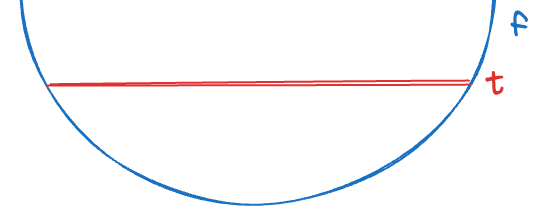
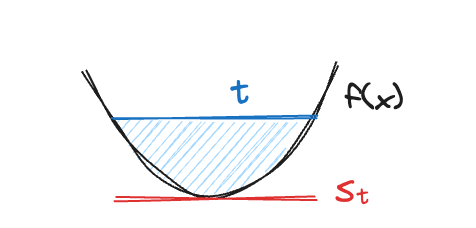
update convex optimization ch3

diff --git a/post/convex_optimization/index.html b/post/convex_optimization/index.html
@@ -194,7 +194,7 @@
 
     ,
         "url" : "https:\/\/doggydoggy0101.github.io\/post\/convex_optimization\/",
-        "wordCount" : "2552",
+        "wordCount" : "3742",
         "genre" : [ ],
         "keywords" : [ 
       
@@ -423,7 +423,7 @@
           </li>
           <li class="post__meta-item">
             <em class="fas fa-stopwatch post__meta-icon"></em>
-            <span class="post__meta-text">12-minute read</span>
+            <span class="post__meta-text">18-minute read</span>
           </li>
         </ul>
       <h3>Table of Contents</h3>
@@ -510,7 +510,47 @@
         <li><a href="#317-epigraph">3.1.7 Epigraph</a></li>
       </ul>
     </li>
-    <li><a href="#32-operations-that-preserve-convexity">3.2 Operations that preserve convexity</a></li>
+    <li><a href="#32-operations-that-preserve-convexity">3.2 Operations that preserve convexity</a>
+      <ul>
+        <li><a href="#324-composition">3.2.4 Composition</a></li>
+        <li><a href="#325-minimization">3.2.5 Minimization</a></li>
+        <li><a href="#326-perspective-of-a-function">3.2.6 Perspective of a function</a></li>
+      </ul>
+    </li>
+    <li><a href="#33-conjugate-function">3.3 Conjugate function</a>
+      <ul>
+        <li><a href="#331-definition-and-examples">3.3.1 Definition and examples</a></li>
+        <li><a href="#332-basic-properties">3.3.2 Basic properties</a></li>
+      </ul>
+    </li>
+    <li><a href="#34-quasiconvex-functions">3.4 Quasiconvex functions</a>
+      <ul>
+        <li><a href="#341-definition-and-examples">3.4.1 Definition and examples</a></li>
+        <li><a href="#342-basic-properties">3.4.2 Basic properties</a></li>
+        <li><a href="#343-differentiable-quasiconvex-fucntions">3.4.3 Differentiable quasiconvex fucntions</a></li>
+        <li><a href="#344-operations-that-preserve-quasiconvexity">3.4.4 Operations that preserve quasiconvexity</a></li>
+      </ul>
+    </li>
+    <li><a href="#35-log-convex-functions">3.5 Log-convex functions</a>
+      <ul>
+        <li><a href="#351-definition">3.5.1 Definition</a></li>
+        <li><a href="#352-properties">3.5.2 Properties</a></li>
+      </ul>
+    </li>
+    <li><a href="#36-convexity-with-respect-to-generalized-inequalities">3.6 Convexity with respect to generalized inequalities</a>
+      <ul>
+        <li><a href="#361-monotonicity-with-respect-to-generalized-inequality">3.6.1 Monotonicity with respect to generalized inequality</a></li>
+        <li><a href="#362-convexity-with-respect-to-a-generalized-inequality">3.6.2 Convexity with respect to a generalized inequality</a></li>
+      </ul>
+    </li>
+  </ul>
+
+  <ul>
+    <li><a href="#41-optimization-problems">4.1 Optimization problems</a>
+      <ul>
+        <li><a href="#411-basic-terminology">4.1.1 Basic terminology</a></li>
+      </ul>
+    </li>
   </ul>
 </nav>
 <p>S. Boyd, L. Vandenberghe, Convex optimization, Cambridge university press, 2004.</p>
@@ -542,7 +582,7 @@ for all \(x,y\in\mathbb{R}^n\) and all \(\alpha,\beta\in\mathbb{R}\) with \(\alp
 <h2 id="12-least-squares-and-linear-programming">1.2 Least squares and linear programming</h2>
 <p>Two subclasses of convex optimization: least-squares and linear programming.</p>
 <h3 id="121-least-squares">1.2.1 Least squares</h3>
-<p>A <em>least squares</em> (LS)is a non-constrained optimization problem with an objective which is a sum of squares of terms:
+<p>A <em>least squares</em> (LS) is a non-constrained optimization problem with an objective which is a sum of squares of terms:
 $$
 \min\ f_0(x)=\|Ax-b\|^2-\sum_{i=1}^k(a_ix-b_i)^2,\tag{1.4}
 $$
@@ -835,47 +875,32 @@ construct the function \(f:\mathbb{R}^n\to\mathbb{R}^m\) given by \(f(x)=P\circ 
 <li>\(x\in S\) is minimum if and only if \(S\subseteq x+K\).</li>
 <li>\(x\in S\) is minimal if and only if \((x-K)\cap S=\{x\}\).</li>
 </ul>
-<blockquote>
-<p>For \(K=\mathbb{R}_+\), minimal and minimum are the same.
-We show some examples for \(K=\mathbb{R}^2_+\):
+<p>For \(K=\mathbb{R}_+\), minimal and minimum are the same. We show some examples for \(K=\mathbb{R}^2_+\):
 <figure><img src="../../images/convex_optimization/min.png"
     alt="image" width="500">
 </figure>
 </p>
-</blockquote>
 <h2 id="25-separating-and-supporting-hyperplanes">2.5 Separating and supporting hyperplanes</h2>
 <h3 id="251-separating-hyperplane-theorem">2.5.1 Separating hyperplane Theorem</h3>
-<p>Suppose \(C\) and \(D\) are nonempty disjoint convex sets, i.e., \(C\cap D=\emptyset\). Then there exist \(a\neq0\) and \(b\) such that \(a^\top x\leq b\) forall \(x\in C\) and \(a^\top x\geq b\) forall \(x\in D\). In other words, the affine function \(a^\top x−b\) is nonpositive on \(C\) and nonnegative on \(D\). The hyperplane \(\{x\mid a^\top x=b\}\) is called a separating hyperplane for the sets \(C\) and \(D\).</p>
-<blockquote>
-<p>We skip the proof here, however, the idea is similar to SVM.
+<p>Suppose \(C\) and \(D\) are nonempty disjoint convex sets, i.e., \(C\cap D=\emptyset\). Then there exist \(a\neq0\) and \(b\) such that \(a^\top x\leq b\) forall \(x\in C\) and \(a^\top x\geq b\) forall \(x\in D\). In other words, the affine function \(a^\top x−b\) is nonpositive on \(C\) and nonnegative on \(D\). The hyperplane \(\{x\mid a^\top x=b\}\) is called a separating hyperplane for the sets \(C\) and \(D\).
 <figure><img src="../../images/convex_optimization/separate.png"
     alt="image" width="300">
 </figure>
 </p>
-</blockquote>
-<p>A separating hyperplane is called <em>strict separation</em> of the sets \(C\) and \(D\) if \(a^\top x&lt;b\) forall \(x\in C\) and \(a^\top x&gt;b\) forall \(x\in D\).</p>
-<blockquote>
-<p>Disjoint convex sets (even closed sets) need not be strictly separable.
-Ex. \(C=\{(x,y)\mid x\leq0\}\) and \(D=\{(x,y)\mid xy\geq1, x&gt;,y&gt;0\}\):
+<p>A separating hyperplane is called <em>strict separation</em> of the sets \(C\) and \(D\) if \(a^\top x&lt;b\) forall \(x\in C\) and \(a^\top x&gt;b\) for all \(x\in D\). Disjoint convex sets (even closed sets) need not be strictly separable. For example, \(C=\{(x,y)\mid x\leq0\}\) and \(D=\{(x,y)\mid xy\geq1, x&gt;,y&gt;0\}\):
 <figure><img src="../../images/convex_optimization/separate_converse.png"
     alt="image" width="320">
 </figure>
 </p>
-</blockquote>
-<p>The converse of the separating hyperplane theorem is not true.</p>
-<blockquote>
-<p>Ex. Hyperplane \(x=0\) separates \(C=D=\{0\}\), but \(C\) and \(D\) are not disjoint convex sets.</p>
-</blockquote>
+<p>The converse of the separating hyperplane theorem is not true. For example, hyperplane \(x=0\) separates \(C=D=\{0\}\), but \(C\) and \(D\) are not disjoint convex sets.</p>
 <p>However, we can add various conditions such that the converse of separating hyperplane is true. For example, any two convex sets \(C\) and \(D\), with at least one of which is open, are disjoint if and only if there exists a separating hyperplane.</p>
 <h3 id="252-supporting-hyperplanes">2.5.2 Supporting hyperplanes</h3>
 <p>Suppose \(C\subseteq\mathbb{R}^n\) and \(x_0\) is a point in its boundary \(\mathbf{bd}\ C\). If \(a\neq0\) satisfies \(a^\top x\leq a^\top x_0\) for all \(x\in C\), then the hyperplane \(\{x\mid a^\top x=b\}\) is called a <em>supporting hyperplane</em> to \(C\) at point \(x_0\).</p>
-<p>This is equivalent to saying that \(x_0\) and \(C\) is separated by the hyperplane \(\{x\mid a^\top x=a^\top x_0\}\).</p>
-<blockquote>
+<p>This is equivalent to saying that \(x_0\) and \(C\) is separated by the hyperplane \(\{x\mid a^\top x=a^\top x_0\}\).
 <figure><img src="../../images/convex_optimization/support.png"
     alt="image" width="240">
 </figure>
-
-</blockquote>
+</p>
 <p><strong>Supporting hyperplane Theorem</strong>
 For any nonempty convex set \(C\) and \(x_0\in\mathbf{bd}\ C\), there exists a supporting hyperplane to \(C\) at \(x_0\).</p>
 <p><strong>Converse of supporting hyperplane Theorem</strong>
@@ -971,17 +996,224 @@ $$
 \nabla^2f(x)\succeq0.
 $$</p>
 <h3 id="316-sublevel-sets">3.1.6 Sublevel sets</h3>
-<p>The \(t\)-sublevel sets of a convex function \(f:\mathbb{R}^n\to\mathbb{R}\) is defined as \(C_t=\{x\in\mathbf{dom}\ f\mid f(x)\leq t\}\). Sublevel sets of a convex function are convex for any value \(t\).</p>
-<blockquote>
-<p>Special case of epigraph.
+<p>The \(t\)-sublevel sets of a convex function \(f:\mathbb{R}^n\to\mathbb{R}\) is defined as \(S_t=\{x\in\mathbf{dom}\ f\mid f(x)\leq t\}\). Sublevel sets of a convex function are convex for any value \(t\).
 <figure><img src="../../images/convex_optimization/sublevel.png"
-    alt="image" width="300">
+    alt="image" width="240">
 </figure>
 </p>
-</blockquote>
 <h3 id="317-epigraph">3.1.7 Epigraph</h3>
 <p>The graph of a function \(f:\mathbb{R}^n\to\mathbb{R}\) is defined as \(\{(x,f(x))\mid x\in\mathbf{dom}\ f\}\), which is a subset of \(\mathbb{R}^{n+1}\). The <em>epigraph</em> of a function \(f:\mathbb{R}^n\to\mathbb{R}\) is defined as \(\mathbf{epi}\ f=\{(x,t)\mid x\in\mathbf{dom}\ f,\ f(x)\leq t\}\subseteq\mathbb{R}^{n+1}\). A function is convex if and only if its epigraph is a convex set.</p>
 <h2 id="32-operations-that-preserve-convexity">3.2 Operations that preserve convexity</h2>
+<p>Operations that preserve convexity of functions, allow us to construct new convex functions.</p>
+<ul>
+<li>\(f\) is convex\(\implies\alpha f(x),\ \alpha\geq0\)  is convex</li>
+<li>\(f_i\) are convex\(\implies\sum f_i(x)\) is convex</li>
+<li>\(f_i\) are convex, \(w_i\) are nonnegative\(\implies\sum w_i f_i(x)\) is convex</li>
+<li>\(f\) is convex, \(g\) is affine \(\implies f(g(x))\) is convex</li>
+<li>\(f_i\) are convex\(\implies\max(f_1(x),\dots,f_n(x))\)  is convex</li>
+<li>\(f(x,y)\) is convex, \(y\in\mathcal{A}\implies\sup_{y\in\mathcal{A}}f(x,y)\) is convex</li>
+</ul>
+<blockquote>
+<p>Prove by epigraph.</p>
+</blockquote>
+<h3 id="324-composition">3.2.4 Composition</h3>
+<p>Suppose \(g:\mathbb{R}^n\to\mathbb{R}^k,\ h:\mathbb{R}^k\to\mathbb{R}\), the compostion \(f=h\circ g:\mathbb{R}^n\to\mathbb{R}\) is defined by
+$$
+f(x)=h(g(x))\ ;\ \ \mathbf{dom}\ f=\{x\in\mathbf{dom}\ g\mid g(x)\in\mathbf{dom}\ h\}.
+$$</p>
+<p><strong>scalar composition</strong> (\(k=1\))</p>
+<p>$$
+f^{\prime\prime}(x)=h^{\prime\prime}(g(x))\underbrace{[g^\prime(x)]^2}_{\geq0}+g^{\prime\prime}(x)h^\prime(g(x)).\tag{3.9}
+$$</p>
+<blockquote>
+<p>In order to make \(f\) convex, we need \(f^{\prime\prime}\geq0\) (second-order conditions). By \((3.9)\), we need \(h^{\prime\prime}\geq0\) and both \(h^\prime,g^{\prime\prime}\geq0\) or \(\leq0\).</p>
+</blockquote>
+<ul>
+<li>\(f\) is convex if \(h\) is convex (\(h^{\prime\prime}\geq0\)) and nondecreasing, and \(g\) is convex (\(g^{\prime\prime},h^\prime\geq0\))</li>
+<li>\(f\) is convex if \(h\) is convex (\(h^{\prime\prime}\geq0\)) and nonincreasing, and \(g\) is concave (\(g^{\prime\prime},h^\prime\leq0\))</li>
+</ul>
+<p><strong>vector composition</strong> (\(k\geq1\))</p>
+<p>$$
+f^{\prime\prime}(x)=g^\prime(x)^T\nabla^2h(g(x))g^\prime(x)+\nabla h(g(x))^Tg^{\prime\prime}(x).\tag{3.15}
+$$</p>
+<ul>
+<li>\(f\) is convex if \(h\) is convex, \(h\) is nondecreasing in each argument, and \(g_i\) are convex</li>
+<li>\(f\) is convex if \(h\) is convex, \(h\) is nonincreasing in each argument, and \(g_i\) are concave</li>
+</ul>
+<h3 id="325-minimization">3.2.5 Minimization</h3>
+<p>We have seen that maximum or supremum of convex functions is convex. We now consider a speical form of minimization
+$$
+g(x)=\inf_{y\in C}f(x,y)\tag{3.16}
+$$
+is convex if \(g(x)&gt;-\infty\) for all \(x\).</p>
+<h3 id="326-perspective-of-a-function">3.2.6 Perspective of a function</h3>
+<p>If \(f:\mathbb{R}^n\to\mathbb{R}\), then the <em>perspective</em> of \(f\) is the function \(g:\mathbb{R}^{n+1}\to\mathbb{R}\) defined by
+$$
+g(x,t)=tf(x/t)\ ;\ \ \mathbf{dom}\ g=\{(x,t)\mid x/t\in\mathbf{dom} f,\ t&gt;0\}.
+$$</p>
+<p>If \(f\) is convex, then \(g\) is convex. We give a short prrof using epigraph and the perspective function of \(\mathbb{R}^{n+1}\) (Sec 2.3.3). For \(t&gt;0\), we have
+$$
+\begin{aligned}
+(x,t,s)\in\mathbf{epi}\ g&amp;\iff tf(x/t)\leq s\\
+&amp;\iff f(x/t)\leq s/t\\
+&amp;\iff(x/t, s/t)\in\mathbf{epi}\ f
+\end{aligned}
+$$
+Since \(f\) is convex\(\iff\mathbf{epi}\ f\) is convex, we have \(g\) is convex\(\iff\mathbf{epi}\ g\) is convex.</p>
+<h2 id="33-conjugate-function">3.3 Conjugate function</h2>
+<h3 id="331-definition-and-examples">3.3.1 Definition and examples</h3>
+<p>Let \(f:\mathbb{R}^n\to\mathbb{R}\), then \(f^*:\mathbb{R}^n\to\mathbb{R}\) is the <em>conjugate</em> of \(f\) defined by
+$$
+f^*(y)=\sup_{x\in\mathbf{dom}\ f}\big(y^\top x-f(x)\big).\tag{3.18}
+$$</p>
+<p>We immediately see that \(f^*\) is convex since it is the supremum of affine function of \(y\), whether \(f\) is convex or not. For example given an affine function \(f(x)=ax+b\),
+$$
+f^*(y)=\sup_{x\in\mathbb{R}}\big(yx-(ax+b)\big)=\sup_{x\in\mathbb{R}}\big((y-a)x-b\big)=\begin{cases}-b&amp;\text{if }y=a\\\infty&amp;\text{if }y\neq a\end{cases}
+$$</p>
+<p>For 1-dimensional case, conjugate function tries to find the maximum distance between \(yx\) and \(f(x)\). A nice demonstration can be found here: <a href="https://youtu.be/zkesU2jMkCg">Fenchel conjugate function demo</a>.
+<figure><img src="../../images/convex_optimization/conjugate.png"
+    alt="image" width="280">
+</figure>
+</p>
+<h3 id="332-basic-properties">3.3.2 Basic properties</h3>
+<p><strong>Fenchel’s inequality</strong> By \((3.18)\), we obtain the <em>Fenchel&rsquo;s inequality</em>
+$$
+f(x)+f^*(y)\geq y^\top x.
+$$</p>
+<p><strong>Conjugate of the conjugate</strong> If \(f\) is convex and closed, i.e., \(\mathbf{epi}\ f\) is a closed convex set, then \(f^{**}=f\), i.e., the conjugate of conjugate of \(f\) is \(f\) itself.</p>
+<p><strong>Differetiable functions</strong> If \(f\) is differentiable, then the conjugate of \(f\) is also called the <em>Legendre transform</em> of \(f\). Suppose \(f\) is convex and differetiable, the maximizer \(x^*\) must satisfy the first-order condition. Take the derivatives if \(y^\top x^*-f(x^*)\) to zero, we get \(y=\nabla f(x^*)\). Therefore, if \(y=\nabla f(x)\), we have a closed-form to compute the conjugate function
+$$
+f^*(y)=\nabla f(x)^\top x-f(x).
+$$</p>
+<h2 id="34-quasiconvex-functions">3.4 Quasiconvex functions</h2>
+<h3 id="341-definition-and-examples">3.4.1 Definition and examples</h3>
+<p>A function \(f:\mathbb{R}^n\to\mathbb{R}\) is called <em>quasiconvex</em> if all its sublevel sets are convex.
+<figure><img src="../../images/convex_optimization/quasiconvex.png"
+    alt="image" width="640">
+</figure>
+</p>
+<h3 id="342-basic-properties">3.4.2 Basic properties</h3>
+<p>We could also characterize quasiconvexity like the definition of convex function: A function \(f\) is quasiconvex if \(\mathbf{dom}\ f\) is convex and if for all \(x,y\in\mathbf{dom}\ f\), and \(\theta\) with \(0\leq\theta\leq1\), we have
+$$
+f(\theta x+(1-\theta)y)\leq\max\{f(x),f(y)\}.\tag{3.19}
+$$</p>
+<blockquote>
+<p>Points between the line segmant cannot be larger than the \(\max\{f(x),f(y)\}\)-level.</p>
+</blockquote>
+<h3 id="343-differentiable-quasiconvex-fucntions">3.4.3 Differentiable quasiconvex fucntions</h3>
+<p><strong>First-order conditions</strong> Suppose \(f:\mathbb{R}^n\to\mathbb{R}\) is differentiable, then \(f\) is quasiconvex if and only if \(\mathbf{dom}\ f\) is convex and for all \(x,y\in\mathbf{dom}\ f\),
+$$
+f(y)\leq f(x)\implies\nabla f(x)^\top(y-x)\leq0.\tag{3.20}
+$$</p>
+<p><strong>Second-order conditions</strong> Suppose \(f:\mathbb{R}^n\to\mathbb{R}\) is twice differentiable. If \(f\) is quasiconvex, then if \(\mathbf{dom}\ f\) is convex and all \(y\in\mathbb{R}^n\), we have
+$$
+y^\top\nabla f(x)=0\implies y^\top\nabla^2f(x)y\geq0.\tag{3.21}
+$$</p>
+<h3 id="344-operations-that-preserve-quasiconvexity">3.4.4 Operations that preserve quasiconvexity</h3>
+<ul>
+<li>\(f_i\) are quasiconvex\(\implies\max(f_1(x),\dots f_k(x))\) is quasiconvex</li>
+<li>\(f_i\) are quasiconvex,  \(w_i\) are nonnegative\(\implies\max(w_1f_1(x),\dots w_kf_k(x))\) is quasiconvex</li>
+<li>\(g:\mathbb{R}^n\to\mathbb{R}\) is quasiconvex, \(h:\mathbb{R}\to\mathbb{R}\) is nondecreasing\(\implies f=h\circ g\) is quasiconvex</li>
+<li>\(f\) is quasiconvex, \(y\in C\implies g(x)=\inf_{y\in C}f(x,y)\) is quasiconvex</li>
+<li>sum of quasiconvex functions is not necessary quasiconvex</li>
+</ul>
+<h2 id="35-log-convex-functions">3.5 Log-convex functions</h2>
+<h3 id="351-definition">3.5.1 Definition</h3>
+<p>A function \(f:\mathbb{R}^n\to\mathbb{R}\) is log-convex if \(f(x)&gt;0\) for all \(x\in\mathbf{dom}\ f\) and \(\log\ f\) is convex. We also write log-convexity like the definition of convex function: a function \(f:\mathbb{R}^n\to\mathbb{R}\) with convex domain and \(f(x)&gt;0\) for all \(x\in\mathbf{dom}\ f\) is log-convex if and only if for all \(x,y\in\mathbf{dom}\ f\) and \(0\leq\theta\leq1\),
+$$
+f(\theta x+(1-\theta)y)\leq f(x)^\theta f(y)^{(1-\theta)}.
+$$</p>
+<blockquote>
+<p>$$\log f(\theta x+(1-\theta)y)\leq\theta\log f(x)+(1-\theta)\log f(y).$$</p>
+</blockquote>
+<h3 id="352-properties">3.5.2 Properties</h3>
+<p><strong>Second-order conditions</strong> \(f\) is log-convex if and only if for all \(x\in\mathbf{dom}\ f\),
+$$
+f(x)\nabla^2f(x)\succeq\nabla f(x)\nabla f(x)^\top.
+$$</p>
+<h2 id="36-convexity-with-respect-to-generalized-inequalities">3.6 Convexity with respect to generalized inequalities</h2>
+<p>Suppose that \(K\subseteq\mathbb{R}^n\) is a proper cone with associated generalized inequality \(\succeq_K\).</p>
+<h3 id="361-monotonicity-with-respect-to-generalized-inequality">3.6.1 Monotonicity with respect to generalized inequality</h3>
+<ul>
+<li>\(f:\mathbb{R}^n\to\mathbb{R}\) is \(K\)-nondecreasing if \(x\preceq_Ky\implies f(x)\leq f(y)\)</li>
+<li>\(f:\mathbb{R}^n\to\mathbb{R}\) is \(K\)-nonincreasing if \(x\succeq_Ky\implies f(x)\geq f(y)\)</li>
+<li>\(f:\mathbb{R}^n\to\mathbb{R}\) is \(K\)-increasing if \(x\preceq_Ky,x\neq y\implies f(x)&lt;f(y)\)</li>
+<li>\(f:\mathbb{R}^n\to\mathbb{R}\) is \(K\)-decreasing if \(x\succeq_Ky,x\neq y\implies f(x)&gt;f(y)\)</li>
+</ul>
+<p><strong>Gradient conditions for monotoncity</strong> Recall that a differentialbe function \(f:\mathbb{R}\to\mathbb{R}\) with convex domain is nondecreasing if and only if \(f^\prime(x)\geq0\) for all \(x\in\mathbf{dom}\ f\). This can also be extended to generalized inequalities:</p>
+<ul>
+<li>\(\nabla f(x)\succeq_{K^*}0\iff f\) is \(K\)-nondecreasing</li>
+<li>\(\nabla f(x)\preceq_{K^*}0\iff f\) is \(K\)-nonincreasing</li>
+<li>\(\nabla f(x)\succ_{K^*}0\implies f\) is \(K\)-increasing</li>
+<li>\(\nabla f(x)\prec_{K^*}0\implies f\) is \(K\)-decreasing</li>
+</ul>
+<h3 id="362-convexity-with-respect-to-a-generalized-inequality">3.6.2 Convexity with respect to a generalized inequality</h3>
+<p>A function \(f:\mathbb{R}^n\to\mathbb{R}^m\) is \(K\)-convex if for all \(x,y\in\mathbf{dom}\ f\) and \(0\leq\theta\leq1\),
+$$
+f(\theta x+(1-\theta)y)\preceq_K\theta f(x)+(1-\theta)f(y).
+$$</p>
+<p><strong>First-order conditions</strong> A differentiable function \(f\) is \(K\)-convex if and only if its domain is convex and for \(x,y\in\mathbf{dom}\ f\),
+$$
+f(y)\succeq_Kf(x)+Df(x)(y-x).
+$$</p>
+<blockquote>
+<p>These definitions reduce to ordinary convexity when \(m=1\) and \(K=\mathbb{R}_+\).</p>
+</blockquote>
+<h1 id="convex-optimization-problems">Convex optimization problems</h1>
+<h2 id="41-optimization-problems">4.1 Optimization problems</h2>
+<h3 id="411-basic-terminology">4.1.1 Basic terminology</h3>
+<p>We use the notation
+$$
+\begin{aligned}
+\min_{x\in\mathbb{R}^n}\ &amp;f_0(x)\\
+\text{s.t. }\ &amp;f_i(x)\leq0,\ i=1,\dots,m\\
+&amp;h_i(x)=0,\ i=1,\dots,p
+\end{aligned}\tag{4.1}
+$$
+to describe the problem of finding an \(x\) that minimized \(f_0(x)\) with some constraints. We call</p>
+<ul>
+<li>\(x\in\mathbb{R}\) the <em>optimization variable</em></li>
+<li>\(f_0:\mathbb{R}^n\to\mathbb{R}\) the <em>objective function</em></li>
+<li>\(f_i:\mathbb{R}^n\to\mathbb{R}\) the <em>equality constraints</em></li>
+<li>\(h_i:\mathbb{R}^n\to\mathbb{R}\) the <em>ineuality constraints</em></li>
+</ul>
+<blockquote>
+<p>We say the problem is <em>unconstrained</em> if there is no constraints in Problem \((4.1)\).</p>
+</blockquote>
+<p>The <em>domain</em> of Problem \((4.1)\) is defined as
+$$
+\mathcal{D}=\bigcap_{i=0}^m\mathbf{dom}\ f_i\cap\bigcap_{i=1}^p\mathbf{dom}\ h_i.
+$$</p>
+<p>A point \(x\in\mathcal{D}\) is <em>feasible</em> if it satisfies all constraints. Problem \((4.1)\) is said to be feasible if there exists at least one feasible point. The set of feasible points is called the <em>feasible set</em>. The <em>optimal value</em> \(p^*\) of Problem \((4.1)\) is defined as
+$$
+p^*=\inf\{f_0(x)\mid f_i(x)\leq0,i=1,\dots,m,\ h_i(x)=0,i=1,\dots,p\}.
+$$</p>
+<p>We say \(x^*\) is an <em>optimal point</em> if \(f_0(x^*)=p^*\). The set of all optimal points is called the <em>optimal set</em>, denoted as
+$$
+X_\text{opt}=\{x\mid f_i(x)\leq0,\ i=1,\dots,m,\ h_i(x)=0,i=1,\dots,p,\ f_0(x)=p^*\}.
+$$</p>
+<p>A feasible point \(x\) with \(f_0(x)\leq p^*+\epsilon\) is called <em>\(\epsilon\)-suboptimal</em>. A feasible point \(x\) is <em>locally optimal</em> if there exists an \(R&gt;0\) such that \(x\) solves
+$$
+\begin{aligned}
+\min_{x\in\mathbb{R}^n}\ &amp;f_0(z)\\
+\text{s.t. }\  &amp;f_i(z)\leq0,\ i=1,\dots,m\\
+&amp;h_i(z)=0,\ i=1,\dots,p\\
+&amp;\|z-x\|_2\leq R
+\end{aligned}
+$$
+with variable \(z\), i.e., \(x\) miminizes \(f_0\) over a neighborhood.</p>
+<blockquote>
+<p>Normally, optimal means <em>global optimal</em>.</p>
+</blockquote>
+<p>We say the \(i\)-th constraint \(f_i(x)\leq0\) is</p>
+<ul>
+<li><em>active/binding</em> if \(f_i(x)=0\) (at the boundary of feasible set)</li>
+<li><em>inactive/non-binding</em> if \(f_i(x)&lt;0\) (interior of the feasible set)</li>
+<li><em>redundant</em> if it does not affect the feasible set</li>
+</ul>
+<blockquote>
+<p>When proving most optimal conditions, only binding constraints are required to be differentiable, while non-binding ones are only required to be continuous. This textbook assumes all constraints are differentiable in Sec 5.5.3.</p>
+</blockquote>
 </div>
     <div class="post__footer">
       
